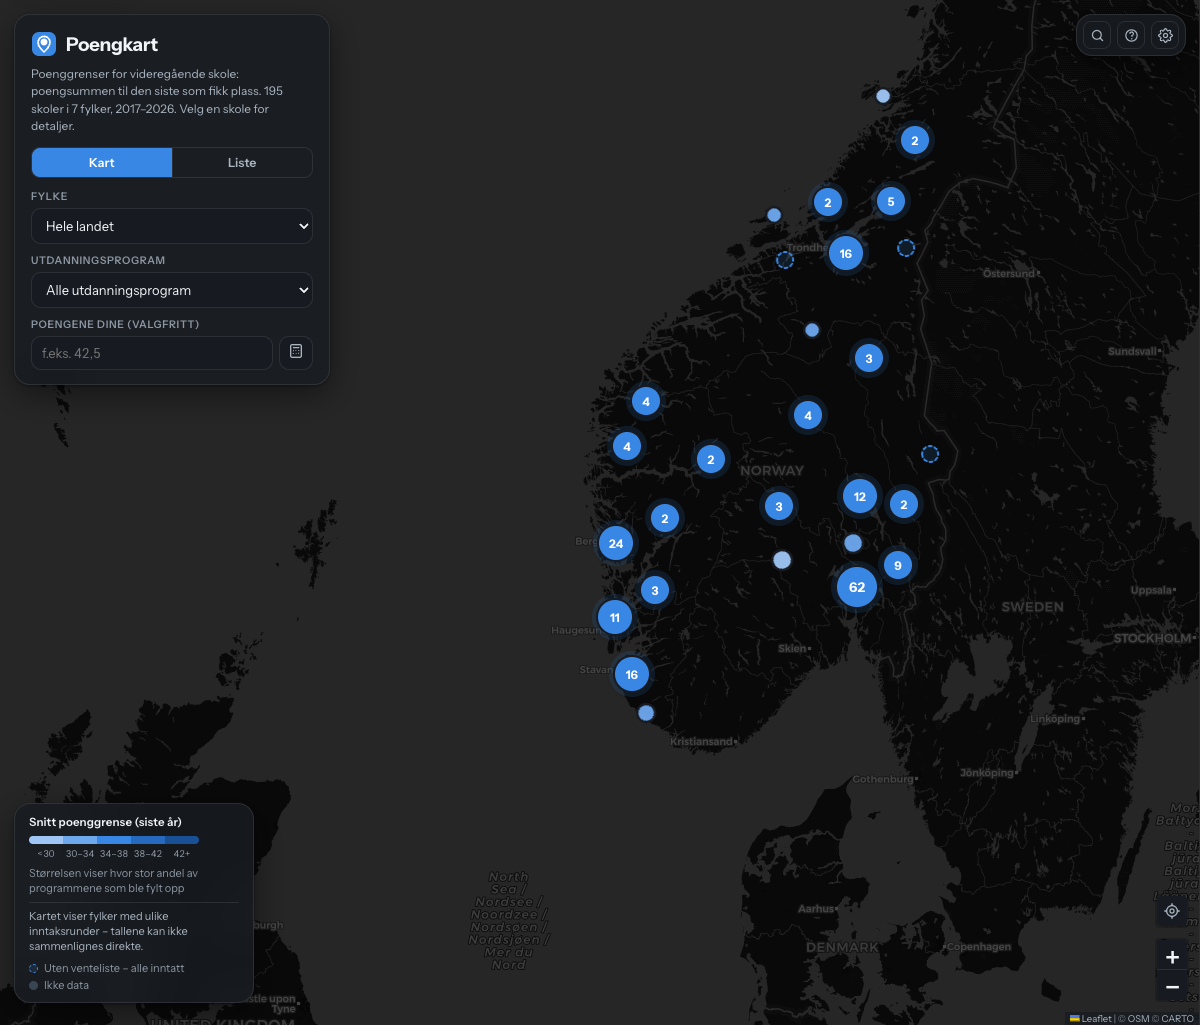
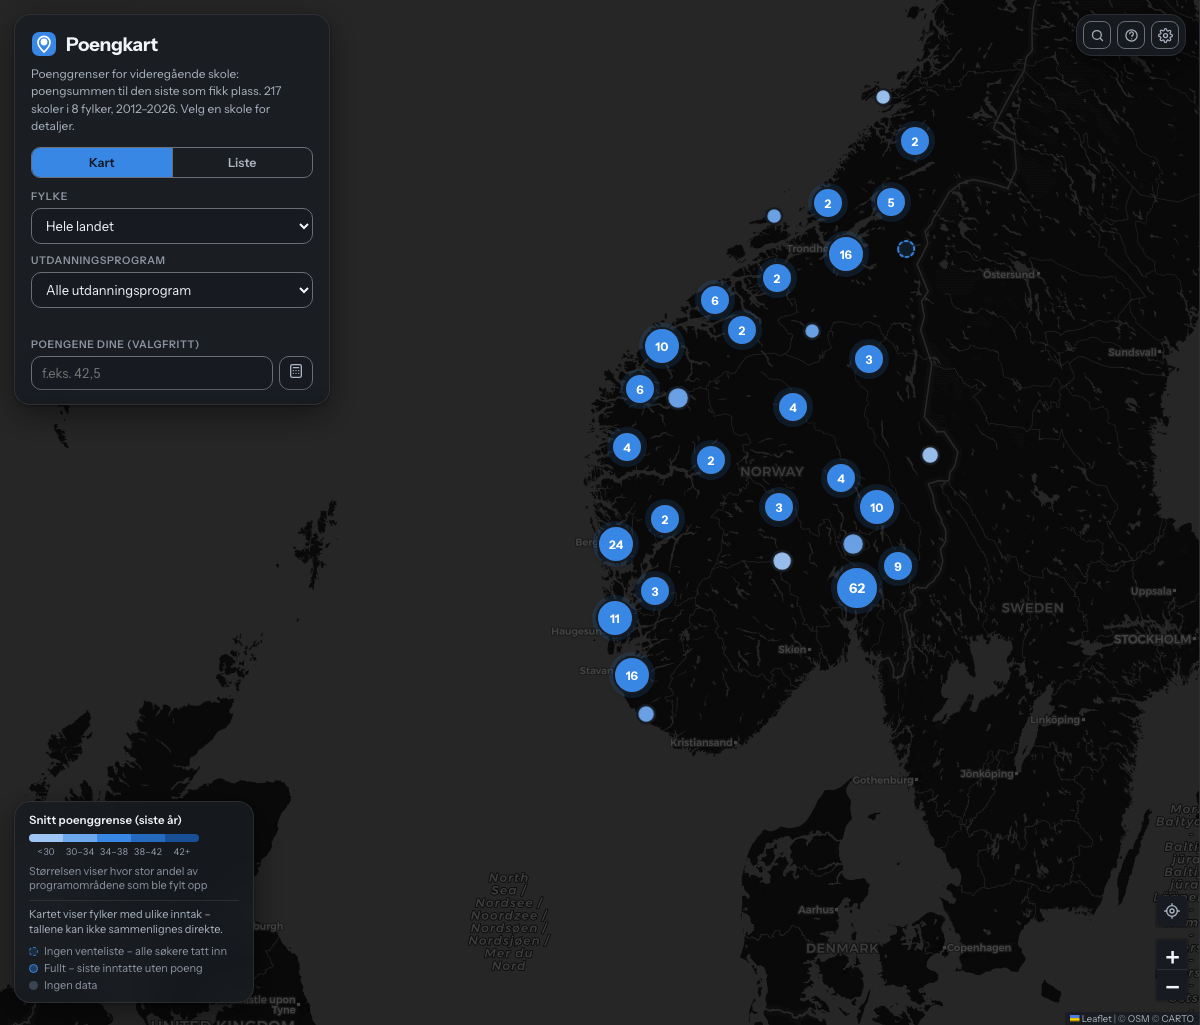
The README's screenshots catch up with the app, and Telemark's lead is closed
Both pictures still said 195 schools in 7 counties, 2017–2026, under an alt
text that said 217. Retaken from production. The text now says wishes where
the app says ønsker, describes the greyed (ingen data) counties as they are,
and points at the source mirror; data-notes stops calling the vilbli lead
worth chasing, since the 1 September commit found it to be an artifact.

diff --git a/README.md b/README.md
@@ -15,9 +15,9 @@ Norwegian and English.
 
 Type in your own points and the map recolours by your chance of a place at
 the next intake — green likely, amber possible, red unlikely — per school and
-per programme; press + on any programme to collect your choices and see
-whether the list holds up. Don't know your points? A small calculator turns
-vitnemål grades into them. The chance comes from a model fitted on the whole
+per programme; press + on any programme to collect your wishes (*ønsker*, the
+ten a vigo application allows) and see whether the list holds up. Don't know
+your points? A small calculator turns vitnemål grades into them. The chance comes from a model fitted on the whole
 history and checked by forecasting each past year from the years before it;
 the panel says how often that check was right.
 
@@ -48,6 +48,10 @@ freedom-of-information requests), and the Python environment in `.venv`:
 .venv/bin/python3 tools/refresh.py
 ```
 
+The same files are mirrored to a public bucket, with every file's SHA-256 in
+`sources/manifest.json`; `tools/sources_r2.py fetch` restores a missing
+`sources/` from there and verifies each file against the manifest.
+
 ## The dataset
 
 `web/data/schools.json` is what the app reads, and is published under the
@@ -72,7 +76,7 @@ Each (school, programme, year) cell is one of:
 
 Where the figures come from, and which inntak each county publishes. Agder,
 Finnmark, Nordland, Telemark, Troms, Vestfold and Østfold do not publish
-thresholds; the app says so when you pick them.
+thresholds; the county select lists them greyed out as *(ingen data)*.
 
 | County | Format | Years | Inntak |
 |---|---|---|---|

diff --git a/docs/data-notes.md b/docs/data-notes.md
@@ -21,9 +21,11 @@ can only ever agree with. The figures are from 2. inntak — the county's
 final round — confirmed by the county after the extract itself arrived
 without saying so.
 
-Telemark is the one still worth chasing: it appears in vilbli's
-county-information block alongside four counties that *are* covered here, but
-the block would not render during verification.
+Telemark runs an intake and publishes the thresholds nowhere, neither on its
+own site nor on vilbli (the "Telemark appears in vilbli's county block" lead
+was an artifact: every vilbli county page serves the same global attachment
+list, and all four articles in it belong to counties already covered). The
+county was asked for the figures on 1 September 2026.
 
 ## Why the depth is so uneven
 
